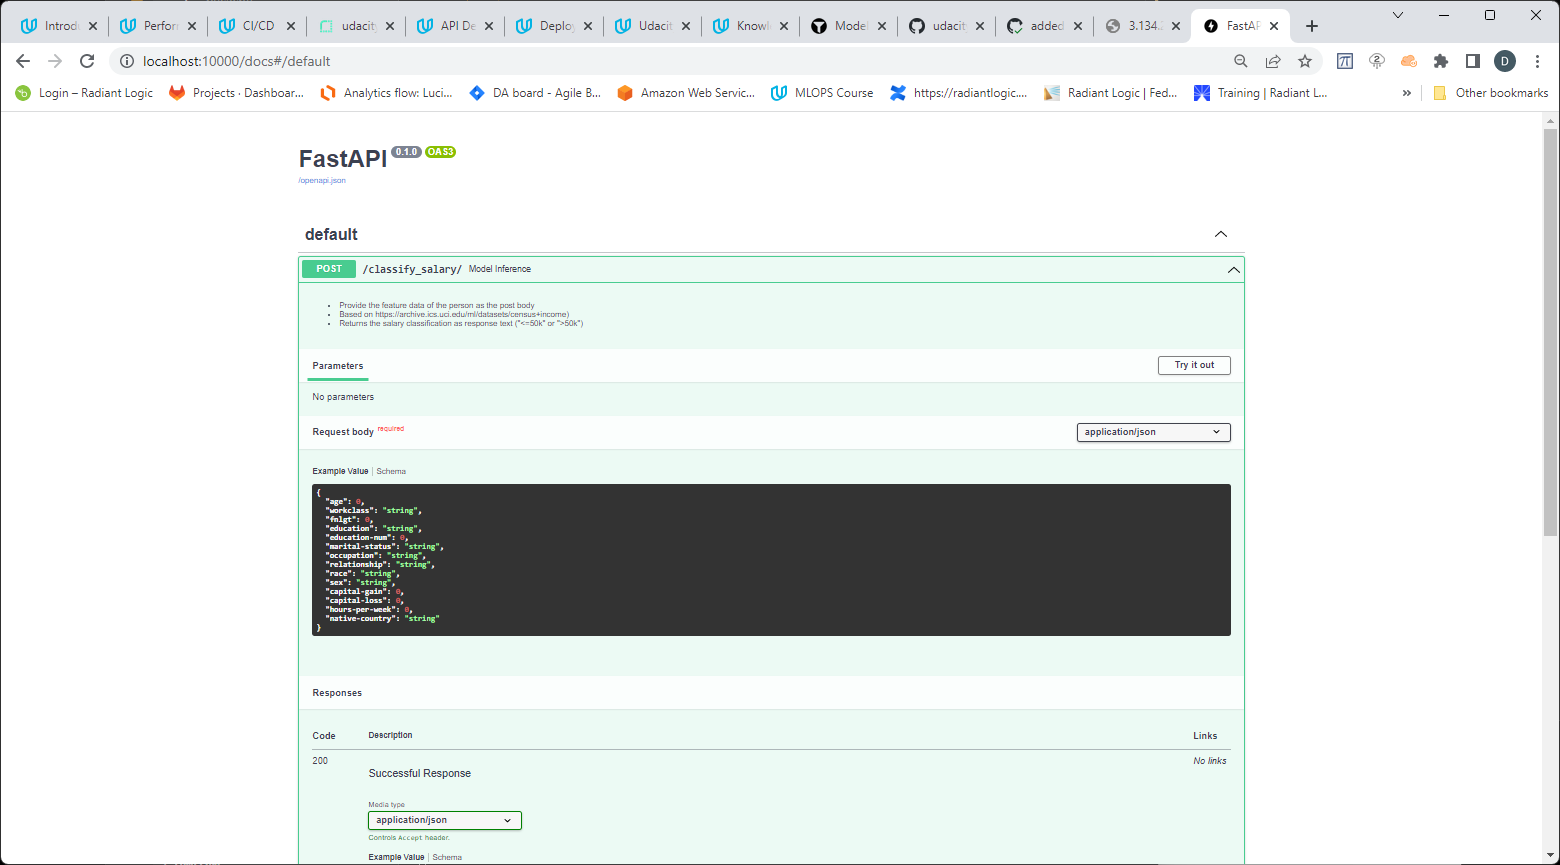
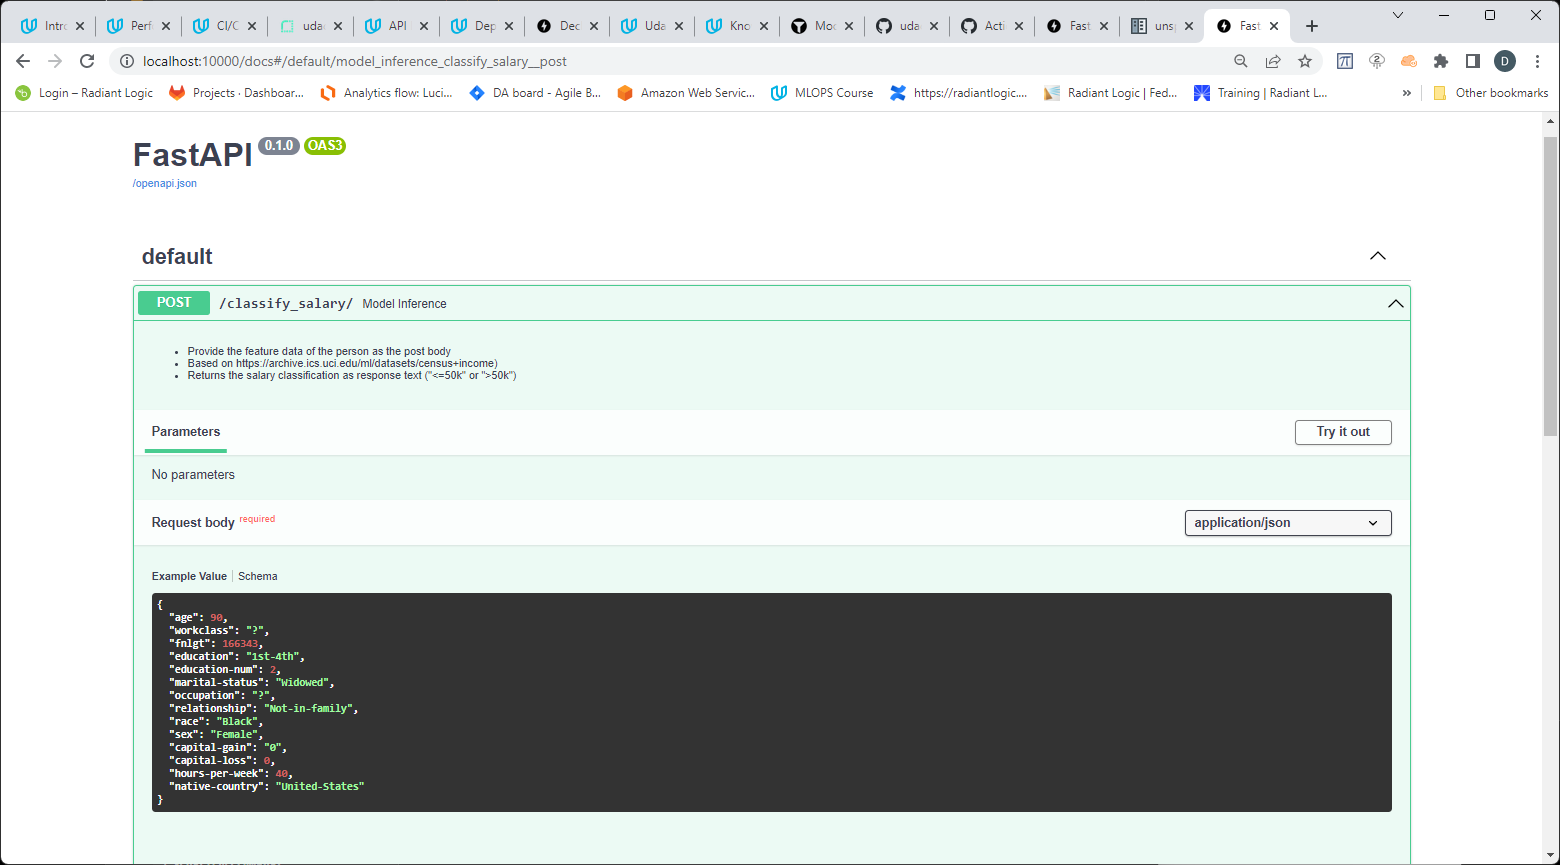
satisfy rubric

diff --git a/starter/main.py b/starter/main.py
@@ -51,8 +51,25 @@ class FeatureData(BaseModel):  # pylint: disable=too-few-public-methods
 
     class Config:
         """necessary to allow assigning values by field names instead of aliases"""
-
         allow_population_by_field_name = True
+        schema_extra = {
+            "example": {
+                "age": 90,
+                "workclass": "?",
+                "fnlgt": 166343,
+                "education": "1st-4th",
+                "education-num": 2,
+                "marital-status": "Widowed",
+                "occupation": "?",
+                "relationship": "Not-in-family",
+                "race": "Black",
+                "sex": "Female",
+                "capital-gain": "0",
+                "capital-loss": 0,
+                "hours-per-week": 40,
+                "native-country": "United-States"
+            }
+        }
 
 
 @app.post("/classify_salary/")

diff --git a/starter/README.md b/starter/README.md
@@ -8,9 +8,7 @@ Working in a command line environment is recommended for ease of use with git an
 
 ## Repositories
 
-* Create a directory for the project and initialize Git and DVC.
-   * As you work on the code, continually commit changes. Trained models you want to keep must be committed to DVC.
-* Connect your local Git repository to GitHub.
+* https://github.com/drawal1/nd0821-c3-starter-code
 
 ## Set up S3
 
@@ -26,7 +24,7 @@ To use your new S3 bucket from the AWS CLI you will need to create an IAM user w
 * Give the user a name and select **Programmatic access**.
 * In the permissions selector, search for S3 and give it **AmazonS3FullAccess**
 * Tags are optional and can be skipped.
-* After reviewing your choices, click create user. 
+* After reviewing your choices, click create user.
 * Configure your AWS CLI to use the Access key ID and Secret Access key.
 
 ## GitHub Actions
